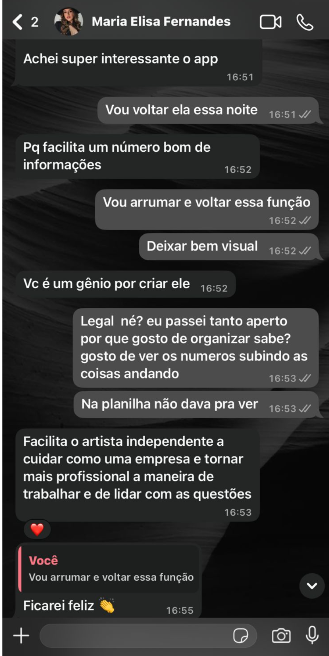
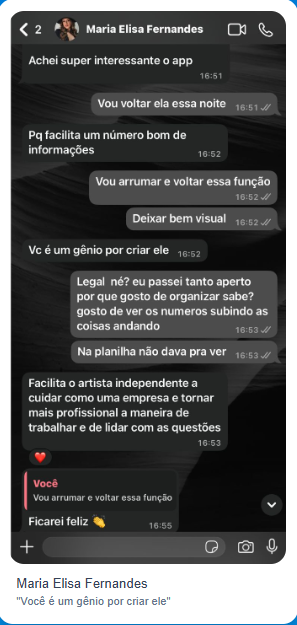
Changes

diff --git a/src/pages/Landing.tsx b/src/pages/Landing.tsx
@@ -36,13 +36,8 @@ import artist2Img from "@/assets/artists/artist-2.png";
 import artist3Img from "@/assets/artists/artist-3.png";
 import artist4Img from "@/assets/artists/artist-4.png";
 
-// WhatsApp testimonials
+// Testimonials
 import mariaElisaWhatsapp from "@/assets/testimonials/maria-elisa-whatsapp.png";
-import renatoWhatsapp from "@/assets/testimonials/renato-whatsapp.png";
-import andreWhatsapp from "@/assets/testimonials/andre-whatsapp.png";
-import caykWhatsapp from "@/assets/testimonials/cayk-whatsapp.png";
-
-// Google reviews
 import larissaGoogle from "@/assets/testimonials/larissa-google.png";
 import marceloGoogle from "@/assets/testimonials/marcelo-google.png";
 import { useNavigate } from "react-router-dom";
@@ -116,7 +111,6 @@ const Landing = () => {
   ];
 
   const mainVideoUrl = "https://www.youtube.com/watch?v=I_5o-hmDuRI";
-  const victorViolaVideoUrl = "https://www.youtube.com/shorts/_nUOr9qoNgI";
 
   const whatsappLink = "https://web.whatsapp.com/send?phone=5512981289496&text=Olá! Tenho uma dúvida sobre o Backstage Pro";
 
@@ -617,118 +611,64 @@ const Landing = () => {
             </p>
           </div>
 
-          {/* Video Testimonial - Victor Viola */}
-          <div className="max-w-xs mx-auto mb-12">
-            <div className="rounded-2xl overflow-hidden shadow-2xl bg-white">
-              <div className="aspect-[9/16] bg-black">
-                <iframe
-                  src={getYouTubeEmbedUrl(victorViolaVideoUrl)?.replace('?autoplay=1', '') || ''}
-                  title="Depoimento Victor Viola"
-                  className="w-full h-full border-0"
-                  allow="accelerometer; autoplay; clipboard-write; encrypted-media; gyroscope; picture-in-picture"
-                  allowFullScreen
+          {/* Testimonials Grid - 3 cards maiores */}
+          <div className="grid md:grid-cols-3 gap-8 max-w-5xl mx-auto">
+            {/* Maria Elisa */}
+            <div className="group">
+              <div className="bg-white rounded-2xl p-4 shadow-xl hover:shadow-2xl transition-all duration-300 hover:-translate-y-2">
+                <img 
+                  src={mariaElisaWhatsapp} 
+                  alt="Depoimento Maria Elisa Fernandes via WhatsApp" 
+                  className="w-full rounded-xl"
                 />
-              </div>
-              <div className="p-4 text-center">
-                <div className="flex items-center justify-center gap-1 mb-2">
-                  {[1, 2, 3, 4, 5].map((i) => (
-                    <Star key={i} className="w-4 h-4 fill-yellow-400 text-yellow-400" />
-                  ))}
+                <div className="mt-4 px-2 pb-2">
+                  <div className="flex items-center gap-1 mb-2">
+                    {[1, 2, 3, 4, 5].map((i) => (
+                      <Star key={i} className="w-4 h-4 fill-yellow-400 text-yellow-400" />
+                    ))}
+                  </div>
+                  <p className="text-slate-800 font-semibold">Maria Elisa Fernandes</p>
+                  <p className="text-slate-500 text-sm">"Você é um gênio por criar ele"</p>
                 </div>
-                <div className="text-slate-800 font-semibold">Victor Viola</div>
-                <div className="text-[#0066CC] text-sm">Usuário do Backstage Pro</div>
               </div>
             </div>
-          </div>
 
-          {/* WhatsApp Testimonials - Real Screenshots */}
-          <div>
-            <div className="text-center mb-8">
-              <div className="inline-flex items-center gap-2 bg-white/10 rounded-full px-4 py-2 mb-4">
-                <MessageCircle className="w-4 h-4 text-cyan-300" />
-                <span className="text-white/90 text-sm font-medium">Feedback real de usuários</span>
+            {/* Larissa - Google */}
+            <div className="group">
+              <div className="bg-white rounded-2xl p-4 shadow-xl hover:shadow-2xl transition-all duration-300 hover:-translate-y-2">
+                <img 
+                  src={larissaGoogle} 
+                  alt="Avaliação Larissa Santos Producoes no Google" 
+                  className="w-full rounded-xl"
+                />
+                <div className="mt-4 px-2 pb-2">
+                  <div className="flex items-center gap-1 mb-2">
+                    {[1, 2, 3, 4, 5].map((i) => (
+                      <Star key={i} className="w-4 h-4 fill-yellow-400 text-yellow-400" />
+                    ))}
+                  </div>
+                  <p className="text-slate-800 font-semibold">Larissa Santos Producoes</p>
+                  <p className="text-slate-500 text-sm">"O app trouxe muito mais organização pra minha carreira"</p>
+                </div>
               </div>
-              <h4 className="text-2xl font-bold text-white">
-                O que artistas estão nos mandando
-              </h4>
             </div>
-            
-            <div className="flex flex-col lg:flex-row gap-6 max-w-6xl mx-auto items-start">
-              {/* Maria Elisa - Card maior à esquerda */}
-              <div className="group w-full lg:w-auto lg:flex-shrink-0">
-                <div className="bg-white rounded-2xl p-3 shadow-xl hover:shadow-2xl transition-all duration-300 hover:-translate-y-1 lg:w-80">
-                  <img 
-                    src={mariaElisaWhatsapp} 
-                    alt="Depoimento Maria Elisa Fernandes via WhatsApp" 
-                    className="w-full rounded-lg"
-                  />
-                  <div className="mt-3 px-2 pb-1">
-                    <p className="text-slate-700 font-medium text-sm">Maria Elisa Fernandes</p>
-                    <p className="text-slate-500 text-xs">"Você é um gênio por criar ele"</p>
-                  </div>
-                </div>
-              </div>
 
-              {/* Grid 2x2 com os outros 4 cards */}
-              <div className="grid grid-cols-2 gap-4 flex-1">
-                {/* Renato */}
-                <div className="group">
-                  <div className="bg-white rounded-2xl p-3 shadow-xl hover:shadow-2xl transition-all duration-300 hover:-translate-y-1 h-full">
-                    <img 
-                      src={renatoWhatsapp} 
-                      alt="Depoimento Renato via WhatsApp" 
-                      className="w-full rounded-lg"
-                    />
-                    <div className="mt-3 px-2 pb-1">
-                      <p className="text-slate-700 font-medium text-sm">Renato</p>
-                      <p className="text-slate-500 text-xs">"Esse App é top msm!"</p>
-                    </div>
+            {/* Marcelo - Google */}
+            <div className="group">
+              <div className="bg-white rounded-2xl p-4 shadow-xl hover:shadow-2xl transition-all duration-300 hover:-translate-y-2">
+                <img 
+                  src={marceloGoogle} 
+                  alt="Avaliação marcelocantor no Google" 
+                  className="w-full rounded-xl"
+                />
+                <div className="mt-4 px-2 pb-2">
+                  <div className="flex items-center gap-1 mb-2">
+                    {[1, 2, 3, 4, 5].map((i) => (
+                      <Star key={i} className="w-4 h-4 fill-yellow-400 text-yellow-400" />
+                    ))}
                   </div>
-                </div>
-
-                {/* Larissa - Google */}
-                <div className="group">
-                  <div className="bg-white rounded-2xl p-3 shadow-xl hover:shadow-2xl transition-all duration-300 hover:-translate-y-1 h-full">
-                    <img 
-                      src={larissaGoogle} 
-                      alt="Avaliação Larissa Santos Producoes no Google" 
-                      className="w-full rounded-lg"
-                    />
-                    <div className="mt-3 px-2 pb-1">
-                      <p className="text-slate-700 font-medium text-sm">Larissa Santos Producoes</p>
-                      <p className="text-slate-500 text-xs">"O app trouxe muito mais organização pra minha carreira"</p>
-                    </div>
-                  </div>
-                </div>
-
-                {/* Marcelo - Google */}
-                <div className="group">
-                  <div className="bg-white rounded-2xl p-3 shadow-xl hover:shadow-2xl transition-all duration-300 hover:-translate-y-1 h-full">
-                    <img 
-                      src={marceloGoogle} 
-                      alt="Avaliação marcelocantor no Google" 
-                      className="w-full rounded-lg"
-                    />
-                    <div className="mt-3 px-2 pb-1">
-                      <p className="text-slate-700 font-medium text-sm">marcelocantor</p>
-                      <p className="text-slate-500 text-xs">"Gosto muito do aplicativo, parabéns aos desenvolvedores!"</p>
-                    </div>
-                  </div>
-                </div>
-
-                {/* Cayk */}
-                <div className="group">
-                  <div className="bg-white rounded-2xl p-3 shadow-xl hover:shadow-2xl transition-all duration-300 hover:-translate-y-1 h-full">
-                    <img 
-                      src={caykWhatsapp} 
-                      alt="Depoimento Cayk via WhatsApp" 
-                      className="w-full rounded-lg"
-                    />
-                    <div className="mt-3 px-2 pb-1">
-                      <p className="text-slate-700 font-medium text-sm">Cayk</p>
-                      <p className="text-slate-500 text-xs">"Meu show mudou de 80% pra 200%!"</p>
-                    </div>
-                  </div>
+                  <p className="text-slate-800 font-semibold">marcelocantor</p>
+                  <p className="text-slate-500 text-sm">"Gosto muito do aplicativo, parabéns aos desenvolvedores!"</p>
                 </div>
               </div>
             </div>
